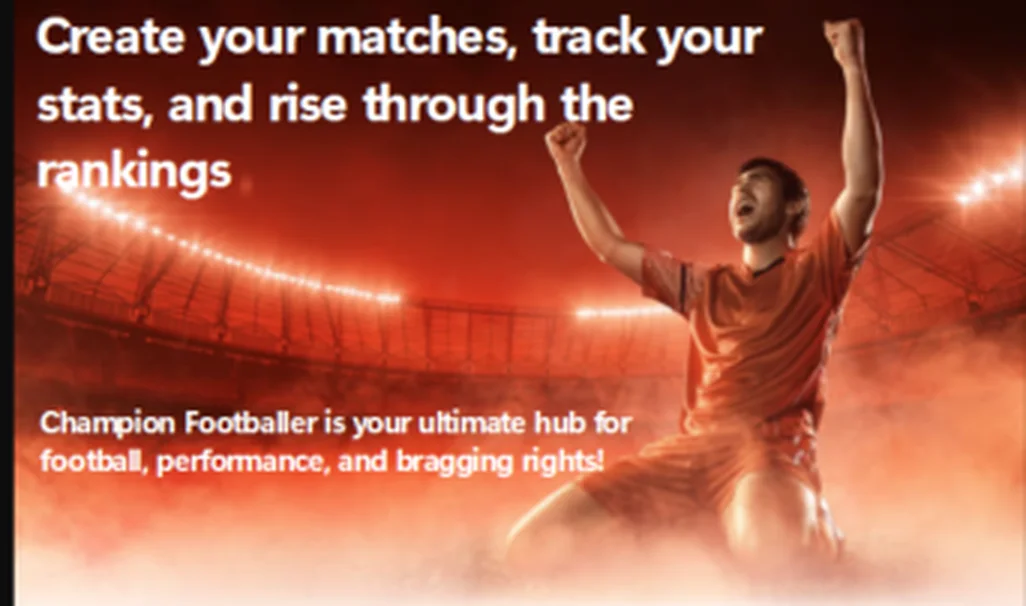
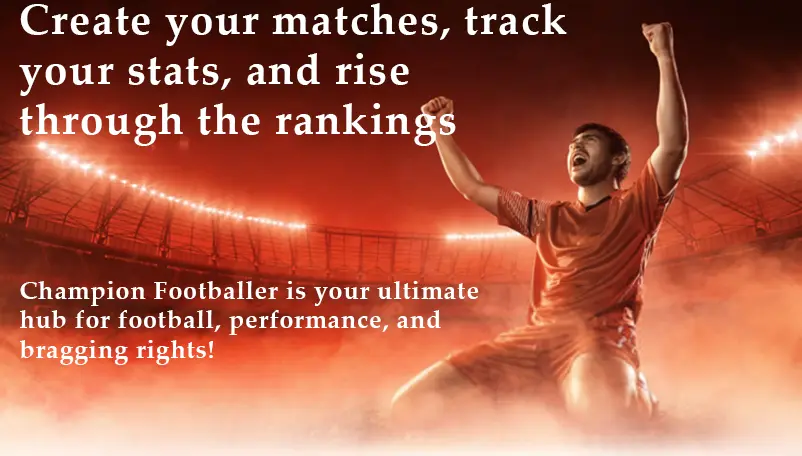
changes

diff --git a/src/app/_compoents/page.tsx b/src/app/_compoents/page.tsx
@@ -77,7 +77,7 @@ export default function LandingPage() {
                   color: 'white',
                   display: 'flex',
                   flexDirection: 'column',
-                  gap: { xs: 1.5, md: 2 },
+                  // gap: { xs: 1.5, md: 2 },
                   mb: { xs: 2, md: 0 },
                 }}
               >
@@ -86,7 +86,7 @@ export default function LandingPage() {
                   sx={{
                     position: 'relative',
                     width: '100%',
-                    borderRadius: '6px',
+                    // borderRadius: '6px',
                     overflow: 'hidden',
                     aspectRatio: { xs: '16/9.5', md: '16/9' },
                     boxShadow: '0 4px 20px rgba(0,0,0,0.5)',
@@ -109,7 +109,7 @@ export default function LandingPage() {
                   sx={{
                     display: 'grid',
                     gridTemplateColumns: 'repeat(2, 1fr)',
-                    gap: { xs: 1.5, md: 2 },
+                    // gap: { xs: 1.5, md: 2 },
                     width: '100%',
                   }}
                 >
@@ -119,7 +119,7 @@ export default function LandingPage() {
                       position: 'relative',
                       width: '100%',
                       aspectRatio: '1.45/1',
-                      borderRadius: '4px',
+                      // borderRadius: '4px',
                       overflow: 'hidden',
                       boxShadow: '0 2px 10px rgba(0,0,0,0.3)',
                     }}
@@ -139,7 +139,7 @@ export default function LandingPage() {
                       position: 'relative',
                       width: '100%',
                       aspectRatio: '1.45/1',
-                      borderRadius: '4px',
+                      // borderRadius: '4px',
                       overflow: 'hidden',
                       boxShadow: '0 2px 10px rgba(0,0,0,0.3)',
                     }}
@@ -158,15 +158,15 @@ export default function LandingPage() {
                     sx={{
                       width: '100%',
                       aspectRatio: '1.45/1',
-                      backgroundColor: '#000000',
-                      borderRadius: '4px',
+                      // backgroundColor: '#000000',
+                      // borderRadius: '4px',
                       display: 'flex',
                       alignItems: 'center',
                       justifyContent: 'center',
                       p: { xs: 1.5, sm: 2, md: 3 },
                       textAlign: 'center',
-                      border: '1px solid rgba(255, 255, 255, 0.08)',
-                      boxShadow: '0 2px 10px rgba(0,0,0,0.3)',
+                      // border: '1px solid rgba(255, 255, 255, 0.08)',
+                      // boxShadow: '0 2px 10px rgba(0,0,0,0.3)',
                     }}
                   >
                     <Typography
@@ -313,44 +313,44 @@ export default function LandingPage() {
                     justifyContent: 'center',
                   }}
                 >
-                <Paper
-                  elevation={8}
-                  sx={{
-                    width: { xs: '92vw', sm: '600px', md: '730px' },
-                    maxWidth: '92vw',
-                    height: { xs: '90vh', md: '1129px' },
-                    maxHeight: '90vh',
-                    overflowY: 'auto',
-                    borderRadius: '15px',
-                    bgcolor: '#f5f6f6',
-                    p: { xs: 3, md: 4 },
-                    position: 'relative',
-                    boxShadow: '0 8px 32px rgba(0,0,0,0.3)',
-                    '&::-webkit-scrollbar': { display: 'none' }, // Hide scrollbar for Chrome/Safari/Opera
-                    scrollbarWidth: 'none', // Hide scrollbar for Firefox
-                    msOverflowStyle: 'none', // Hide scrollbar for IE/Edge
-                  }}
-                >
-                  {/* Close button */}
-                  <IconButton
-                    onClick={() => setIsJoinModalOpen(false)}
+                  <Paper
+                    elevation={8}
                     sx={{
-                      position: 'absolute',
-                      right: 8,
-                      top: 8,
-                      color: 'grey.500',
-                      '&:hover': { bgcolor: 'rgba(0,0,0,0.1)' }
+                      width: { xs: '92vw', sm: '600px', md: '730px' },
+                      maxWidth: '92vw',
+                      height: { xs: '90vh', md: '1129px' },
+                      maxHeight: '90vh',
+                      overflowY: 'auto',
+                      borderRadius: '15px',
+                      bgcolor: '#f5f6f6',
+                      p: { xs: 3, md: 4 },
+                      position: 'relative',
+                      boxShadow: '0 8px 32px rgba(0,0,0,0.3)',
+                      '&::-webkit-scrollbar': { display: 'none' }, // Hide scrollbar for Chrome/Safari/Opera
+                      scrollbarWidth: 'none', // Hide scrollbar for Firefox
+                      msOverflowStyle: 'none', // Hide scrollbar for IE/Edge
                     }}
                   >
-                    <CloseIcon />
-                  </IconButton>
+                    {/* Close button */}
+                    <IconButton
+                      onClick={() => setIsJoinModalOpen(false)}
+                      sx={{
+                        position: 'absolute',
+                        right: 8,
+                        top: 8,
+                        color: 'grey.500',
+                        '&:hover': { bgcolor: 'rgba(0,0,0,0.1)' }
+                      }}
+                    >
+                      <CloseIcon />
+                    </IconButton>
 
-                  {/* Auth Tabs - Register form */}
-                  <Box sx={{ width: '100%', overflow: 'visible' }}>
-                    <AuthTabs showLogin={false} onToggleForm={() => { }} />
-                  </Box>
-                </Paper>
-              </Modal>
+                    {/* Auth Tabs - Register form */}
+                    <Box sx={{ width: '100%', overflow: 'visible' }}>
+                      <AuthTabs showLogin={false} onToggleForm={() => { }} />
+                    </Box>
+                  </Paper>
+                </Modal>
               )}
             </Grid>
           </Grid>
